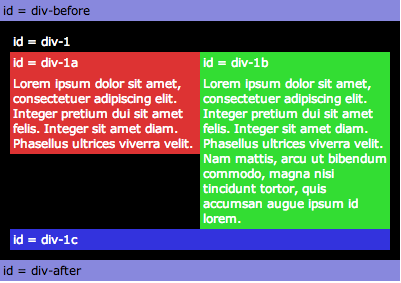
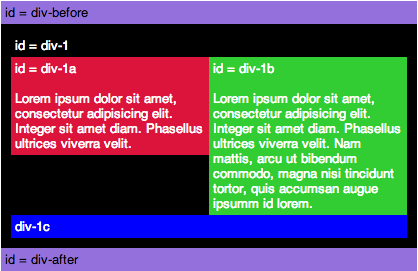
Added floating and clearing slides. Replaced all positioning images.

diff --git a/html-css-course/slides.html b/html-css-course/slides.html
@@ -603,9 +603,9 @@ div &gt; p:first-child { text-indent: 0 }</code></pre>
                 <p>The position property enables you to place an element exactly where you want it on a webpage. There are four valid values:</p>
                 <ul>
                     <li>Static (defalut value)</li>
+                    <li>Fixed</li>
                     <li>Relative</li>
                     <li>Absolute</li>
-                    <li>Fixed</li>
                 </ul>
             </section>
             
@@ -616,6 +616,17 @@ div &gt; p:first-child { text-indent: 0 }</code></pre>
    position:static;
 }</code></pre></div>
                 <div style="float:left; width: 50%;"><img src="resources/pos-static.png"></div>
+            </section>
+            
+            <section>
+                <h1>Fixed Positioning</h1>
+                <p>Used to position an element on a fixed position relative to the browser window, even when scrolling. In this case the #div-1 block will be stuck at the bottom of the browser viewport.</p>
+                <div style="float:left; width: 50%;"><pre><code>#div-1 { 
+    position: fixed; 
+    left: 0px; 
+    bottom: 0px; 
+}</code></pre></div>
+                <div style="float:left; width: 50%;"><img src="resources/pos-fixed.png"></div>
             </section>
             
             <section>
@@ -632,7 +643,7 @@ div &gt; p:first-child { text-indent: 0 }</code></pre>
             <section>
                 <h1>Absolute Positioning</h1>
                 <p>When you specify position:absolute, the element is removed from the document and placed exactly where you tell it to go.</p>
-                <div style="float:left; width:50%;"><pre><code>#div-1 {
+                <div style="float:left; width:50%;"><pre><code>#div-1a {
     position:absolute;
     top:0;
     right:0;
@@ -657,36 +668,46 @@ div &gt; p:first-child { text-indent: 0 }</code></pre>
             </section>
             
             <section>
-                <h1>Fixed Positioning</h1>
-                <p>Used to position an element on a fixed position relative to the browser window, even when scrolling.</p>
-                <pre><code>div#menu-bar { position: fixed; left: 0px; bottom: 0px; }</code></pre>
+                <h1>Floating Columns</h1>
+                <p>If we float one column to the left, then also float the second column to the left, they will push up against each other.</p>
+                <div style="float:left; width: 50%;"><pre><code>#div-1a {
+    float:left;
+    width:150px;
+}
+#div-1b {
+    float:left;
+    width:150px;
+}</code></pre></div>
+                <div style="float:left; width: 50%;"><img src="resources/pos-float-col.png"></div>
+            </section>
+            
+            <section>
+                <h1>Clearing Floats</h1>
+                <p>Then after the floating elements we can "clear" the floats to push down the rest of the content.</p>
+                <div style="float:left; width: 50%;"><pre><code>#div-1a {
+    float:left;
+    width:190px;
+}
+#div-1b {
+    float:left;
+    width:190px;
+}
+#div-1c {
+    clear:both;
+}</code></pre></div>
+                <div style="float:left; width: 50%;"><img src="resources/pos-float-col-clear.png"></div>
             </section>
             
             <section>
                 <h1>Centering Content</h1>
-                <p>This box is horizontally centered by setting its right and left margin widths to "auto". </p>
-                <pre><code>#container { margin: 0px auto; }</code></pre>
+                <p>Now, if we want to center div-1a and div-1c horizontally this can be done by setting its right and left margin widths to "auto". </p>
+                <div style="float:left; width: 50%;"><pre><code>#div-1a, #div-1c { 
+    margin: 0px auto; 
+    width: 200px; 
+}</code></pre></div>
+                <div style="float:left; width: 50%;"><img src="resources/pos-centering.png"></div>
             </section>
             
-            <section>
-                <h1>Creating Columns</h1>
-                <p>These content and sidebar boxes are distributed into two columns with a fixed width inside the container &lt;div&gt;.</p>
-                <pre><code>#container { margin: 0px auto; }
-#content { float: left; width: 500px; } 
-#sidebar { float: right; width: 300px; }</code></pre>
-
-                <pre><code>&lt;body&gt;
-    &lt;div id=&quot;container&quot;&gt;
-        &lt;div id=&quot;content&quot;&gt;Here goes content!&lt;/div&gt;
-        &lt;div id=&quot;sidebar&quot;&gt;Here goes secondary content&lt;/div&gt;
-    &lt;/div&gt;
-&lt;/body&gt;</code></pre>
-            </section>
-            
-            <section>
-                <h1>Floating and Clearing</h1>
-            </section>
-                        
             <section><h1>The Cascade - Inheritance</h1></section>
             
             <section><h1>The Cascade - Specificity</h1></section>
